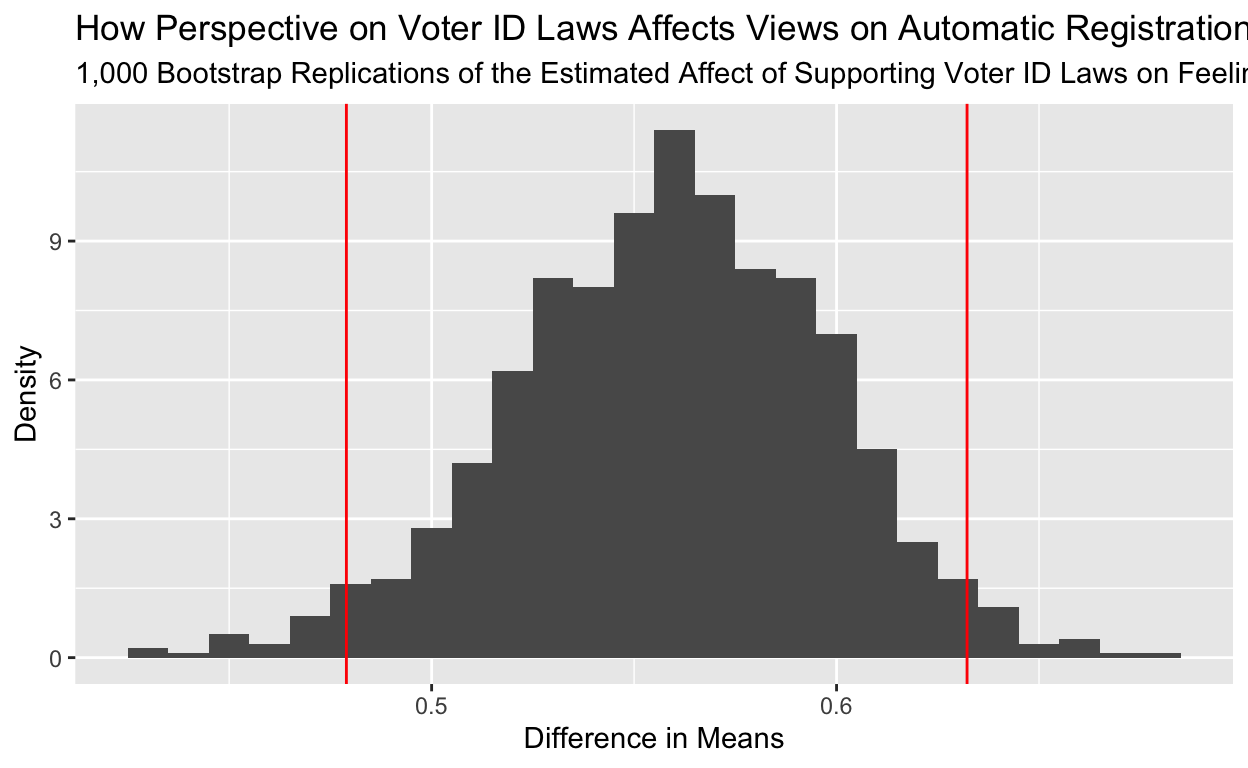
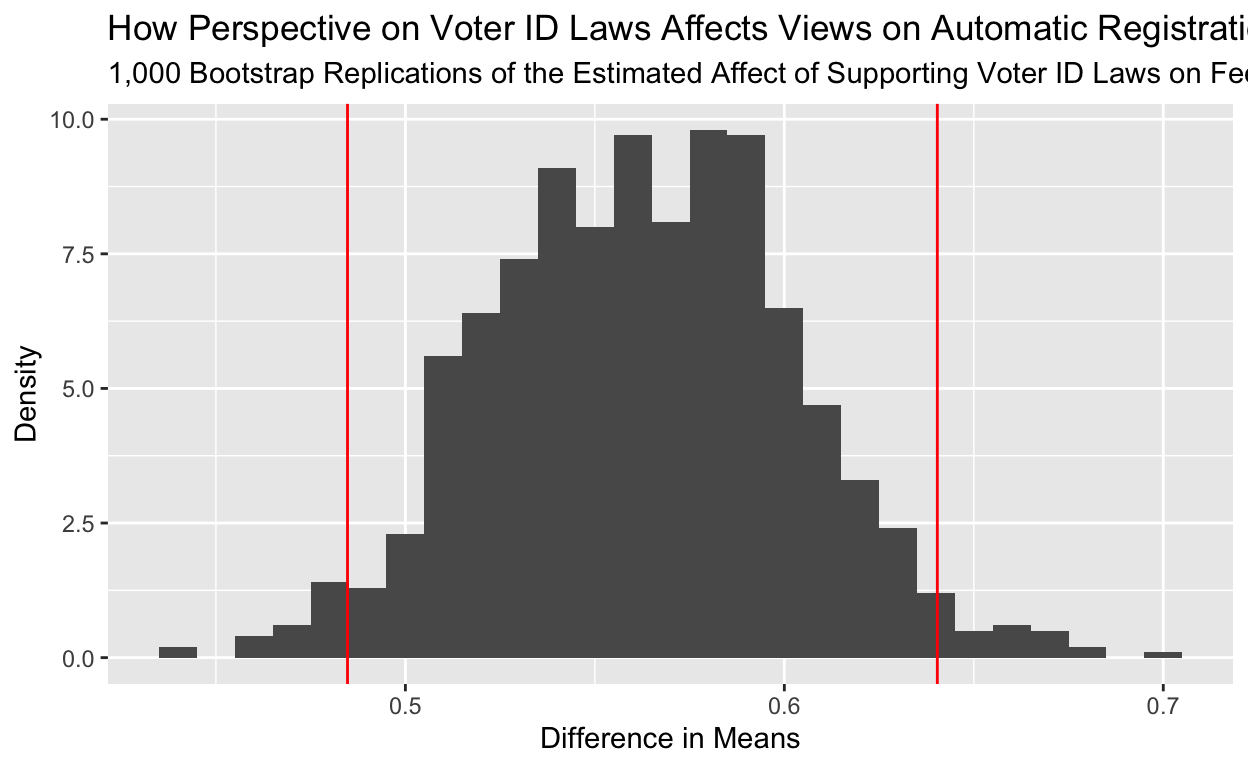
edits

diff --git a/index.html b/index.html
@@ -1520,12 +1520,12 @@ code span.wa { color: #5e5e5e; font-style: italic; } /* Warning */
 
 <div class="d-article">
 <h2 id="introduction">Introduction</h2>
-<p>With the 2024 general election rapidly approaching, issues of low voter turnout and mass disenfranchisement continue to plague the country. Policies which seek to reach the quarter of Americans who are not currently registered to vote continue to garner the attention of both politicians and the media. In particular, the policy of automatic registration, which would replace the opt-in system of voter registration with an opt-out system, has already been successfully implemented in over 20 states. Indeed, a report from the New Brennan Center found that “AVR markedly increases the number of voters being registered [with] increases in the number of registrants ranging from 9 to 94 percent.” If automatic registration could be the key to increasing voter registration and thus turnout in the United States, why do some individuals still refuse to support this policy? This report seeks to understand why certain individuals support automatic voter registration and to what extent an individual’s perspective on automatic registration merely a product of their support of other progressive voting policies?</p>
-<p>I hypothesize that perspective on automatic registration will correlate with perspective on voter ID laws wherein individuals who oppose voter ID laws, a policy with a longstanding history of voter discrimination, will support automatic registration, a policy which would increase access to voting. Furthermore, I expect this relationship to be in large part explained first by party membership, as democrats typically support progressive voting policies, and second by racial identity, as marginalized racial groups are historically the most affected by voter disenfranchisement.</p>
+<p>With the 2024 general election rapidly approaching, issues of low voter turnout and mass disenfranchisement continue to plague this country. Policies which seek to reach the quarter of Americans who are not currently registered to vote continue to garner the attention of both politicians and the media. In particular, the policy of automatic registration, which would replace the opt-in system of voter registration with an opt-out system and automatically register everyone who turns 18, has already been successfully implemented in over 20 states. Indeed, a report from the New Brennan Center found that “AVR markedly increases the number of voters being registered [with] increases in the number of registrants ranging from 9 to 94 percent.” If automatic registration could be the key to increasing voter registration and thus turnout in the United States, why do some individuals still refuse to support this policy? This report seeks to understand why certain individuals support automatic voter registration, and to what extent an individual’s perspective on automatic registration is merely a product of their support of other progressive voting policies.</p>
+<p>I hypothesize that perspective on automatic registration will correlate with perspective on voter ID laws, wherein individuals who oppose voter ID laws, a policy with a longstanding history of voter discrimination, will support automatic registration, a policy which would increase access to voting. Furthermore, I expect this relationship to be in large part explained first by party membership, as democrats typically support progressive voting policies, and second by racial identity, as marginalized racial groups are historically the most affected by voter disenfranchisement.</p>
 <h2 id="the-data">The Data</h2>
-<p>The data for this report comes from the Pew Research Center’s American Trends Panel, a survey which is sent to a random sampling of 10,000 American adults meant to represent the diversity of America. The Pew Center makes a conscious effort to minimize the effect of external variables on the data they collect, thus generating trends data that is representative of American opinion. This report analyzes data on respondent’s opinions on various forms of voter registration — specifically voter ID laws and automatic registration — in the months after the 2020 general election. This data comes from Wave 87 of the American Trends Panel which was conducted in April 2021, three months after the Inauguration of President Biden, and consists of responses from half of the panelists (5,109 respondents).</p>
-<p>Since the American Trends Panel contains data on a multitude of issues, it was important to filter, rename, and refine the data to address the specific research question stated above. The independent variable addressed in this research is perspective on voter ID laws, reported in the variable VTPRIORITY_j_W87 where 1 = Strongly favor, 2 = Somewhat favor, 3 = Somewhat oppose, and 4 = Strongly oppose. In the analysis below, this variable was renamed to voteridlaws. Furthermore, to simplify this variable for the data visualization a new variable was created entitles voteridlabel in which those who responded with a one or two were grouped into a category of supporting voter ID laws and those who responded with a 3 or 4 were grouped as being against voter ID laws. The dependent variable is perspective on automatic registration, reported in the variable VTPRIORITY_a_W87 which operates on the same scale as the voter ID law variable. This variable was similarly renamed to be automaticregistration, then further split into two categories of support and oppose under the variable automaticreglabel.</p>
-<p>Furthermore, this report also measures the influence of other explanatory variables such as race, age, gender, and political party, with a specific focus on race and political party. These variables were all imported into the original data under the names F_AGECAT, F_GENDER, F_RACETHNMOD, and F_PARTY_FINAL and renamed as age, gender, race, and party respectively. In the data set, age is broken up into four categories 18-29, 30-49, 50-64, and 65+. Gender was measured as 1 = respondent identifies as a man, 2 = respondent identifies as a women, 3 = respondent identifies in some other way. Race is broken up into five categories where 1 = White, non-Hispanic, 2 = Black, non-Hispanic, 3 = Hispanic, 4 = other, and 5 = Asian, non-Hispanic. Finally, party was broken down into 1 = Republican, 2 = Democrat, 3 = Independent, and 4 = Something else</p>
+<p>The data for this report comes from the Pew Research Center’s American Trends Panel, a survey which is sent to a random sampling of 10,000 American adults who serve as a microcosm of America today. The Pew Center makes a conscious effort to minimize the effect of external variables on the data they collect, thus generating trends data that is representative of American opinion. This report analyzes data on the opinion’s of respondents on various forms of voter registration — specifically voter ID laws and automatic registration — in the months after the 2020 general election. This data comes from Wave 87 of the American Trends Panel which was conducted in April 2021, three months after the Inauguration of President Biden, and consists of responses from half of the panelists (5,109 respondents).</p>
+<p>Since the American Trends Panel contains data on a multitude of issues, it was important to filter, rename, and refine the data to address the research question stated above. The independent variable in this research is perspective on voter ID laws, reported in the variable VTPRIORITY_j_W87 where 1 = Strongly favor, 2 = Somewhat favor, 3 = Somewhat oppose, and 4 = Strongly oppose. In the analysis below, this variable was renamed to voteridlaws. Furthermore, to simplify this variable for the data visualization, a new variable was created entitled voteridlabel. For this variable, those who responded with a one or two were grouped into a category of supporting voter ID laws and those who responded with a 3 or 4 were grouped as being against voter ID laws. The dependent variable is perspective on automatic registration, reported in the variable VTPRIORITY_a_W87 which operates on the same scale as the voter ID law variable. This variable was similarly renamed to be automaticregistration, then further split into two categories of support and oppose under the variable automaticreglabel.</p>
+<p>Furthermore, this report also measures the influence of other explanatory (independent) variables such as race, age, gender, and political party. These variables were all imported into the original data under the names F_AGECAT, F_GENDER, F_RACETHNMOD, and F_PARTY_FINAL and renamed as age, gender, race, and party respectively. In the data set, age is broken up into four categories 18-29, 30-49, 50-64, and 65+. Gender was measured as 1 = respondent identifies as a man, 2 = respondent identifies as a women, 3 = respondent identifies in some other way. Race is broken up into five categories where 1 = White, non-Hispanic, 2 = Black, non-Hispanic, 3 = Hispanic, 4 = other, and 5 = Asian, non-Hispanic. Finally, party was broken down into 1 = Republican, 2 = Democrat, 3 = Independent, and 4 = Something else</p>
 <p>For all of the variables stated above, the option of non-response was filtered out. For most of the variables, non-response was represented by a result of 99. For party and race, however, an answer of four represented an answer of other, which, for the sake of this analysis, was removed. Furthermore, the answer of Independent for party affiliation was removed for the sake of simplicity. These alterations filtered the data from 5,109 responses to 2,902 responses, it is those individuals whose data is analyzed below.</p>
 <div class="layout-chunk" data-layout="l-body">
 <div class="sourceCode">
@@ -1615,10 +1615,10 @@ code span.wa { color: #5e5e5e; font-style: italic; } /* Warning */
 </div>
 <p><img src="index_files/figure-html5/unnamed-chunk-3-1.png" width="624" /></p>
 </div>
-<p>Similar to automatic registration, there appears to be more support for voter id laws than opposition. That said, there are fewer individuals — under 1500 — who support these laws strongly and nearly 500 respondents strongly oppose this policy.</p>
+<p>Similar to automatic registration, there appears to be more support that opposition for voter ID laws. That said, there are fewer individuals — under 1500 — who support these laws strongly and nearly 500 respondents strongly oppose this policy.</p>
 <h2 id="results">Results</h2>
 <h2 id="bootstrapped-difference-in-means-calculation">Bootstrapped Difference in Means Calculation</h2>
-<p>To understand the how a respondent’s perspective on voter ID laws relates to their perspective on automatic registration, I performed a difference in means calculation wherein the average feeling toward automatic registration was taken for both the group who supports voter id laws and those who don’t, then subtracted from each other. In an attempt to limit the interference of outside variables, bootstrap replications were used here, generating 1,000 random sample groups.</p>
+<p>To understand how a respondent’s perspective on voter ID laws relates to their perspective on automatic registration, I performed a difference in means calculation wherein the average feeling toward automatic registration was taken for both the group who supports voter ID laws and those who don’t, then subtracted from each other. In an attempt to limit the interference of outside variables, bootstrap replications were used, generating 1,000 random sample groups.</p>
 <div class="layout-chunk" data-layout="l-body">
 <div class="sourceCode">
 <pre class="sourceCode r"><code class="sourceCode r"><span><span class='va'>ate_boots</span> <span class='op'>&lt;-</span> <span class='va'>data</span> <span class='op'>|&gt;</span></span>
@@ -1643,20 +1643,22 @@ code span.wa { color: #5e5e5e; font-style: italic; } /* Warning */
 </div>
 <p><img src="index_files/figure-html5/unnamed-chunk-4-1.png" width="624" /></p>
 </div>
-<p>The bootstrap replications display the number of samples which result in a particular difference in means. For the graph of views on automatic registration, the average treatment effect follows a normal distribution with the center located around 0.57, meaning on average respondents who support voter ID laws were less in favor of automatic registration than those who did not by about 0.57 points. Furthermore, the 95% confidence interval calculated above has a lower bound of 0.486 and an upper bound of 0.638, thus it does not include zero. Thus, at least at the 95% confidence interval, it is possible to discount the null hypothesis — support for voter ID laws bears no effect on a respondent’s views on automatic registration.</p>
+<p>The bootstrap replications display the number of samples which result in a particular difference in means. For the graph of views on automatic registration, the average treatment effect follows a normal distribution with the center located around 0.57, meaning on average respondents who support voter ID laws were less in favor of automatic registration than those who did not by about 0.57 points. Furthermore, the 95% confidence interval calculated above does not include zero. Thus, at least at the 95% confidence interval, it is possible to discount the null hypothesis — support for voter ID laws bears no effect on a respondent’s views on automatic registration.</p>
 <h2 id="multiple-regression">Multiple Regression</h2>
-<p>To further explore this relationship, I conducted a regression which not only analyzed the impact of my primary independent variable but also my other independent variables. This regression analyzes the effect of respondents’ perspective on voter ID laws, race, party, gender, and age on their views about automatic registration.</p>
+<p>To further explore this relationship, I conducted a regression which not only analyzed the impact of my primary independent variable but also my other explanatory variables. This regression analyzes the effect of respondents’ perspective on voter ID laws, race, party, gender, and age on their views about automatic registration.</p>
 <div class="layout-chunk" data-layout="l-body">
 <div class="sourceCode">
 <pre class="sourceCode r"><code class="sourceCode r"><span><span class='kw'><a href='https://rdrr.io/r/base/library.html'>library</a></span><span class='op'>(</span><span class='va'><a href='https://github.com/tidymodels/infer'>infer</a></span><span class='op'>)</span></span>
 <span><span class='kw'><a href='https://rdrr.io/r/base/library.html'>library</a></span><span class='op'>(</span><span class='va'><a href='https://modelsummary.com'>modelsummary</a></span><span class='op'>)</span></span>
 <span><span class='va'>data2</span> <span class='op'>&lt;-</span> <span class='va'>data</span> <span class='op'>|&gt;</span></span>
 <span>  <span class='fu'><a href='https://dplyr.tidyverse.org/reference/filter.html'>filter</a></span><span class='op'>(</span><span class='va'>race</span> <span class='op'>!=</span> <span class='fl'>3</span>,</span>
-<span>         <span class='va'>race</span> <span class='op'>!=</span> <span class='fl'>5</span><span class='op'>)</span> <span class='op'>|&gt;</span></span>
+<span>         <span class='va'>race</span> <span class='op'>!=</span> <span class='fl'>5</span>,</span>
+<span>         <span class='va'>gender</span> <span class='op'>!=</span><span class='fl'>3</span><span class='op'>)</span> <span class='op'>|&gt;</span></span>
 <span>  <span class='fu'><a href='https://dplyr.tidyverse.org/reference/mutate.html'>mutate</a></span><span class='op'>(</span>voteridbinary <span class='op'>=</span> <span class='fu'><a href='https://dplyr.tidyverse.org/reference/if_else.html'>if_else</a></span><span class='op'>(</span><span class='va'>voteridlaws</span> <span class='op'>&lt;</span> <span class='fl'>2</span>, <span class='fl'>1</span>, <span class='fl'>0</span><span class='op'>)</span><span class='op'>)</span></span>
 <span></span>
 <span><span class='va'>fit_ate_voterid</span> <span class='op'>&lt;-</span> </span>
-<span>  <span class='fu'><a href='https://rdrr.io/r/stats/lm.html'>lm</a></span><span class='op'>(</span><span class='va'>automaticregistration</span> <span class='op'>~</span> <span class='va'>voteridbinary</span> <span class='op'>+</span> <span class='va'>race</span> <span class='op'>+</span> <span class='va'>party</span> <span class='op'>+</span> <span class='va'>gender</span> <span class='op'>+</span> <span class='va'>age</span>, data <span class='op'>=</span> <span class='va'>data2</span><span class='op'>)</span></span>
+<span>  <span class='fu'><a href='https://rdrr.io/r/stats/lm.html'>lm</a></span><span class='op'>(</span><span class='va'>automaticregistration</span> <span class='op'>~</span> <span class='va'>voteridbinary</span> <span class='op'>+</span> <span class='va'>race</span> <span class='op'>+</span> <span class='va'>party</span> <span class='op'>+</span> <span class='va'>gender</span> <span class='op'>+</span> <span class='va'>age</span>, </span>
+<span>     data <span class='op'>=</span> <span class='va'>data2</span><span class='op'>)</span></span>
 <span></span>
 <span><span class='fu'>modelsummary</span><span class='fu'>::</span><span class='fu'><a href='https://rdrr.io/pkg/modelsummary/man/modelsummary.html'>modelsummary</a></span><span class='op'>(</span><span class='va'>fit_ate_voterid</span>,</span>
 <span>                           statistic <span class='op'>=</span> <span class='fu'><a href='https://rdrr.io/r/base/c.html'>c</a></span><span class='op'>(</span><span class='st'>"s.e. = {std.error}"</span>,</span>
@@ -1679,7 +1681,7 @@ code span.wa { color: #5e5e5e; font-style: italic; } /* Warning */
 (Intercept)
 </td>
 <td style="text-align:center;">
-3.917
+3.916
 </td>
 </tr>
 <tr>
@@ -1708,7 +1710,7 @@ voteridbinary
 <td style="text-align:left;">
 </td>
 <td style="text-align:center;">
-s.e. = 0.052
+s.e. = 0.053
 </td>
 </tr>
 <tr>
@@ -1723,7 +1725,7 @@ p = 0.005
 race
 </td>
 <td style="text-align:center;">
-0.098
+0.095
 </td>
 </tr>
 <tr>
@@ -1737,7 +1739,7 @@ s.e. = 0.051
 <td style="text-align:left;">
 </td>
 <td style="text-align:center;">
-p = 0.053
+p = 0.061
 </td>
 </tr>
 <tr>
@@ -1745,7 +1747,7 @@ p = 0.053
 party
 </td>
 <td style="text-align:center;">
-−1.419
+−1.416
 </td>
 </tr>
 <tr>
@@ -1767,21 +1769,21 @@ p = &lt;0.001
 gender
 </td>
 <td style="text-align:center;">
-0.040
+0.037
 </td>
 </tr>
 <tr>
 <td style="text-align:left;">
 </td>
 <td style="text-align:center;">
-s.e. = 0.044
+s.e. = 0.045
 </td>
 </tr>
 <tr>
 <td style="text-align:left;">
 </td>
 <td style="text-align:center;">
-p = 0.370
+p = 0.407
 </td>
 </tr>
 <tr>
@@ -1789,7 +1791,7 @@ p = 0.370
 age
 </td>
 <td style="text-align:center;">
-0.066
+0.067
 </td>
 </tr>
 <tr>
@@ -1811,7 +1813,7 @@ p = 0.004
 Num.Obs.
 </td>
 <td style="text-align:center;">
-1796
+1788
 </td>
 </tr>
 <tr>
@@ -1819,7 +1821,7 @@ Num.Obs.
 R2
 </td>
 <td style="text-align:center;">
-0.378
+0.377
 </td>
 </tr>
 <tr>
@@ -1827,14 +1829,14 @@ R2
 R2 Adj.
 </td>
 <td style="text-align:center;">
-0.376
+0.375
 </td>
 </tr>
 </tbody>
 </table>
 </div>
-<p>This regression indicates that relative to those who oppose voter ID laws, an individual who supports voter ID laws scores 0.148 points higher on their feeling towards automatic registration: meaning they oppose the policy by 0.148 points more than their peers who do not support voter ID laws. The p-value of 0.005 indicates that this result is highly significant. Furthermore, this information indicates that we can not only reject the null hypothesis of no effect at the 0.05 level but at the 0.01 level as well, as 0.005 is less than 0.01.</p>
-<p>The regression above also analyzes the effect of other independent, and possibly explanatory, variables. To evaluate if the effect of these other variables is statistically significant, it is important to first look at their p-values. Only age and party have a p-value under 0.05, the value which indicates statistical significance. This data indicates that neither race nor gender have a significant impact on a respondent’s view toward automatic registration.</p>
+<p>This regression indicates that relative to those who oppose voter ID laws, an individual who supports voter ID laws rates themselves 0.148 points higher on their feeling towards automatic registration: meaning they oppose the policy by 0.148 points more than their peers who do not support voter ID laws. The p-value of 0.005 indicates that this result is highly significant. Furthermore, this p-value asserts that we are not only able to reject the null hypothesis of no effect at the 0.05 level (found above) but at the 0.01 level as well, as 0.005 is less than 0.01.</p>
+<p>The regression also analyzes the effect of other independent, and possibly explanatory, variables. To evaluate if the effect of these other variables is statistically significant, it is important to first look at their p-values. Only age and party have a p-value under 0.05, the value which indicates statistical significance. This data indicates that neither race nor gender have a significant impact on a respondent’s view toward automatic registration. Furthermore, their p-values indicate that we can reject the null hypothesis — that, analyzed separately, age and party have no effect on a respondent’s opinion on automatic registration — at the 0.01 level.</p>
 <p>In examining age and party more closely, the coefficient for age is found to be 0.066, indicating that as an individual’s age increases, they tend to oppose automatic registration by 0.066 more points, relative to younger respondents. The p-value of 0.004 indicates that the coefficient found in the regression is highly significant. Furthermore, the coefficient for party is -1.419, indicating that Democrats tend to favor automatic registration by 1.419 points more than republicans. With a p-value less than 0.001, this result appears to be highly statistically significant. Indeed, the coefficient for party as well as its corresponding p-value indicate that it is party, not age or perspective on voter ID laws, which serves as the largest determinant of a respondent’s perspective on automatic registration.</p>
 <h2 id="summary-graph">Summary Graph</h2>
 <p>This final graph summarizes the relationship between party, the statistically significant explanatory variable with the largest coefficient, and views on automatic registration.</p>
@@ -1857,10 +1859,10 @@ R2 Adj.
 </div>
 <p><img src="index_files/figure-html5/unnamed-chunk-6-1.png" width="624" /></p>
 </div>
-<p>This graph indicates a clear relationship between party membership and support of automatic registration, wherein around 1750 members of the democratic party report supporting automatic registration to some degree. Furthermore, while around 500 members of the republican party oppose automatic registration, under 250 democrats feel similarly.</p>
+<p>This graph indicates a clear relationship between party membership and support for automatic registration, wherein around 1750 members of the democratic party report supporting automatic registration to some degree. Furthermore, while around 500 members of the republican party oppose automatic registration, under 250 democrats feel similarly.</p>
 <h2 id="conclusion">Conclusion</h2>
-<p>The initial hypothesis stated that perspective on automatic registration will correlate with perspective on voter ID laws wherein individuals who oppose voter ID laws, a policy with a longstanding history of voter discrimination, will support automatic registration, a policy which would increase access to voting. Both the bootstrapped difference in means and the regression model indicate that those who support voter ID laws tend to oppose automatic registration. That said, while the null hypothesis of no effect was rejected, the effect was found to be quite small. The next part of the hypothesis stated that I expected this relationship to be in large part explained first by party membership, as democrats typically support progressive voting policies, and second by racial identity, as marginalized racial groups are historically the most affected by voter disenfranchisement. Surprisingly, the regrssion model found that the relationship between race and perspective on automatic registration was not statistically significant. Two other independent variables — age and party membership — were, however, statistically significant, and for both, the null hypothesis of no effect could be rejected. Indeed, an increase in age appeared to correlate with a small increase in opposition toward automatic registration. Furthermore, the coefficient for party membership was the largest, indicating that democrats tended to favor automatic registration by 1.419 points more than republican respondents.</p>
-<p>These results beget the conclusion that passing automatic registration policy is not seen as the same as abolishing voter ID laws in the United States. Indeed, while those who support voter id laws correlate somewhat with those who support automatic registration, the explanatory variable with the largest impact on perspective is party membership. Despite this, there is not enough data in this study to determine any sort of causal relationship, merely assert that there is definitely correlation. To conduct a more comprehensive analysis of perspective on the various influences which determine an individual’s perspective on voter registration, it is important to look at many policies across time.</p>
+<p>The initial hypothesis stated that perspective on automatic registration will correlate with perspective on voter ID laws wherein individuals who oppose voter ID laws, a policy with a longstanding history of voter discrimination, will support automatic registration, a policy which would increase access to voting. Both the bootstrapped difference in means and the regression model indicate that those who support voter ID laws tend to oppose automatic registration. That said, while the null hypothesis of no effect was rejected at the 0.01 level, the effect was found to be quite small. The next part of the hypothesis stated that I expected this relationship to be in large part explained first by party membership, as democrats typically support progressive voting policies, and second by racial identity, as marginalized racial groups are historically the most affected by voter disenfranchisement. Surprisingly, the regression model found that the relationship between race and perspective on automatic registration was not statistically significant. Two other independent variables — age and party membership — were, however, statistically significant, and for both, the null hypothesis of no effect could be rejected. Indeed, an increase in age appeared to correlate with a small increase in opposition toward automatic registration. Furthermore, the coefficient for party membership was the largest, indicating that democrats tended to favor automatic registration by 1.419 points more than republican respondents.</p>
+<p>These results beget the conclusion that passing automatic registration policy is not seen as the same as abolishing voter ID laws in the United States. Indeed, while those who support voter id laws correlate somewhat with those who support automatic registration, the explanatory variable with the largest impact on perspective is party membership. Despite this, there is not enough data in this study to determine any sort of causal relationship, merely assert that there is definite correlation. To conduct a more comprehensive analysis of the various influences which determine an individual’s perspective on voter registration, it is important to look at many policies across time. Furthermore, it is also imperative to collect more data, as the number of remaining respondents after the data had been filtered was incredibly small.</p>
 <h2 id="works-cited">Works Cited</h2>
 <p>Keeter, Scott. “Growing and Improving Pew Research Center’s American Trends Panel.” Pew Research
 Center. Last modified February 27, 2019. Accessed December 13, 2023.
